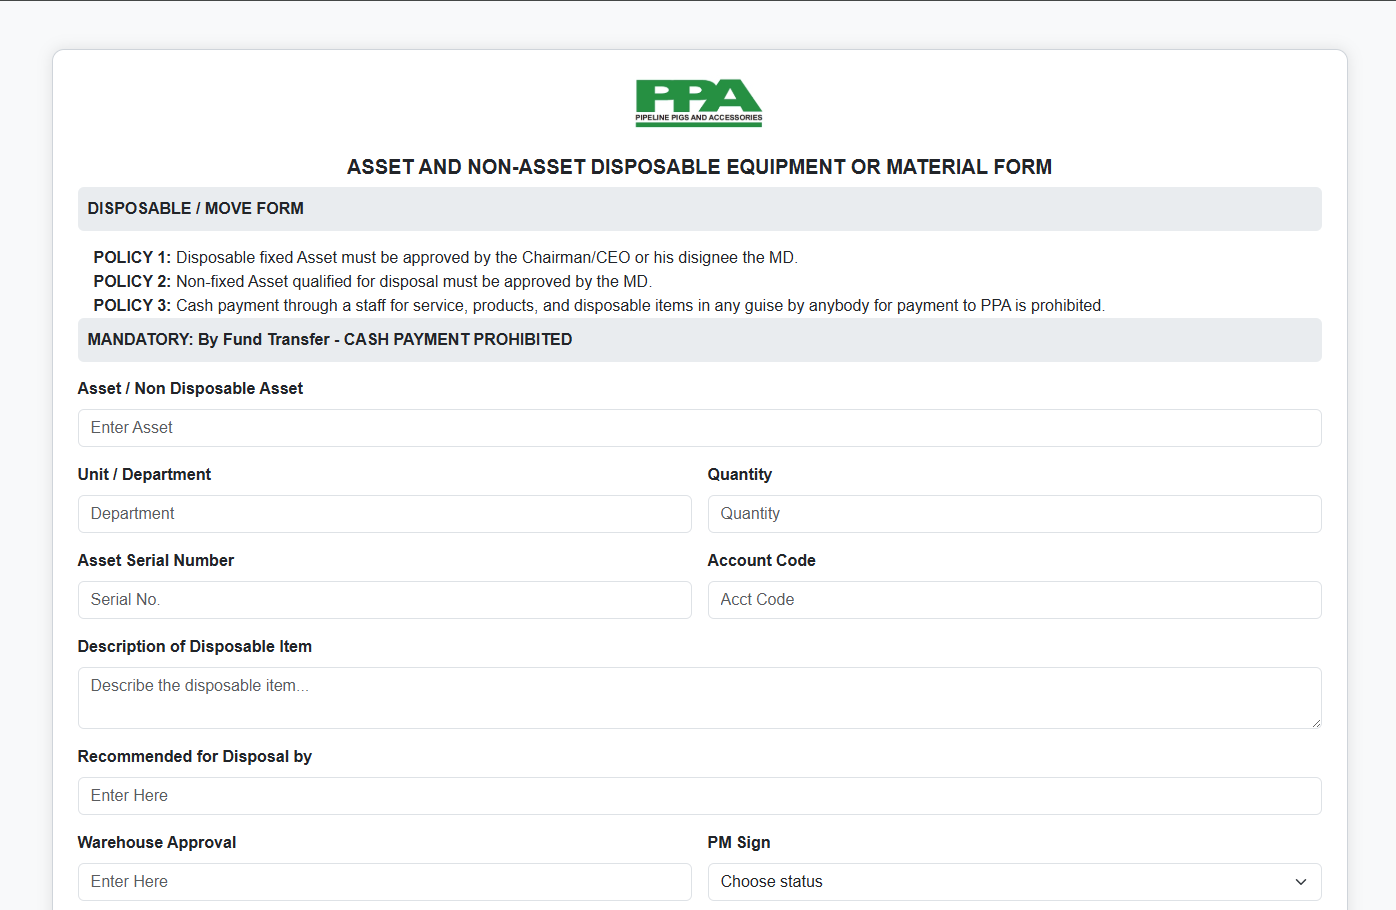
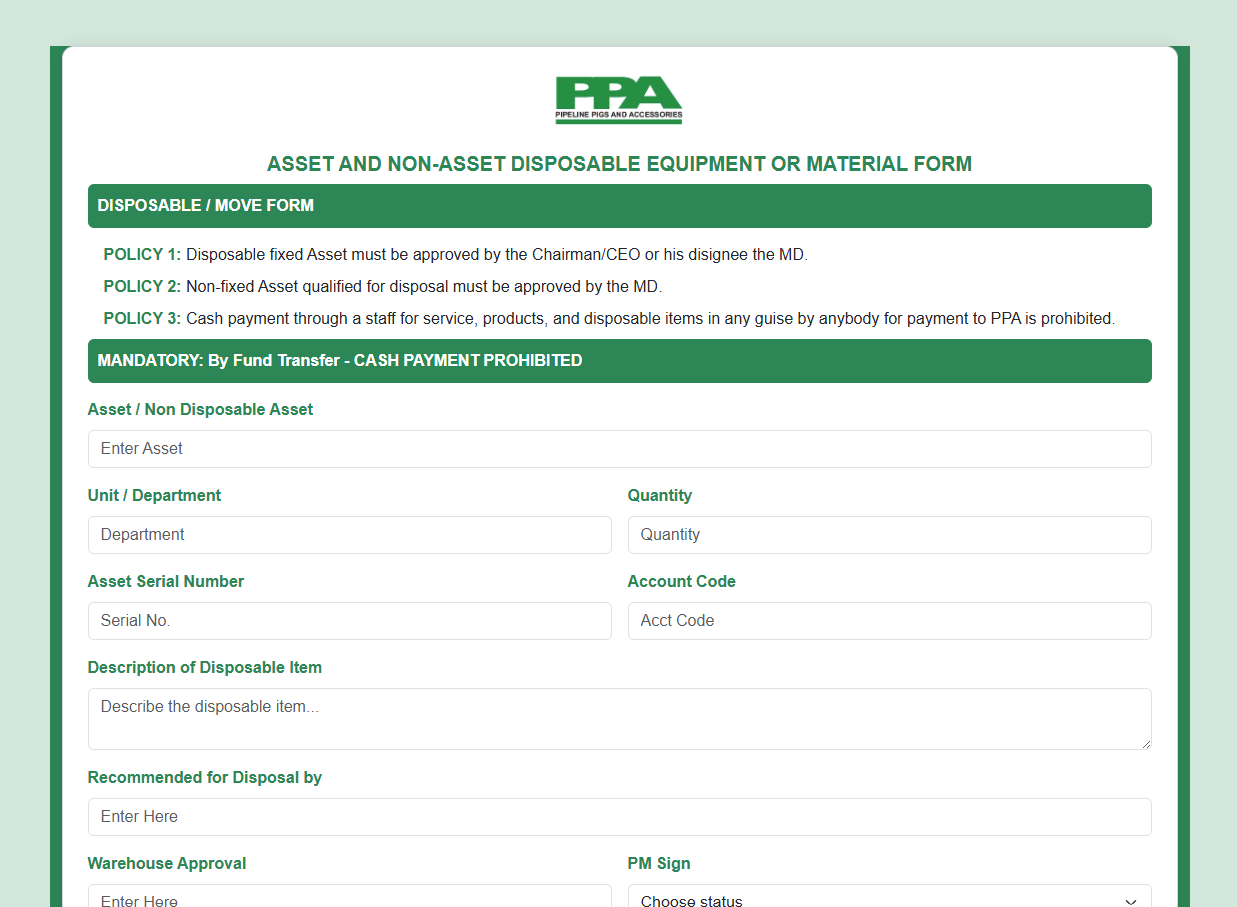
CSS STYLING COMMIT 9-7-2025

diff --git a/home.html b/home.html
@@ -9,13 +9,13 @@
 </head>
 <body>
 
-<div class="container my-5">
+<div class="container my-5 bg-success">
   <div class="report-card">
     <div class="row d-flex justify-content-center">
       <!-- Logo & Title Column -->
       <div class="col-md-12 text-start w-auto">
         <img src="img/logo.png" alt="BGT Logo" class="img-fluid mx-auto d-block" style="width: 150px; height: auto;">
-        <h5 class="fw-bold mt-4">
+        <h5 class="fw-bold mt-4 text-success">
           ASSET AND NON-ASSET DISPOSABLE EQUIPMENT OR MATERIAL FORM
         </h5>
       </div>
@@ -23,52 +23,52 @@
 
     <form enctype="multipart/form-data">
       <!-- DISPOSABLE/MANDATORY FORM Begins  -->
-      <div class="section-title">DISPOSABLE / MOVE FORM </div>
-        <p class="mb-0 fw-semibold px-3 pb-2">POLICY 1:
-          <span class="fw-normal">Disposable fixed Asset must be approved by the Chairman/CEO or his disignee the MD.</span>
+      <div class="section-title bg-success text-white">DISPOSABLE / MOVE FORM </div>
+        <p class="mb-0 fw-semibold px-3 pb-2 text-success">POLICY 1:
+          <span class="fw-normal text-dark">Disposable fixed Asset must be approved by the Chairman/CEO or his disignee the MD.</span>
         </p>
-        <p class="mb-0 fw-semibold px-3 pb-2">POLICY 2:
-          <span class="fw-normal">Non-fixed Asset qualified for disposal must be approved by the MD.</span>
+        <p class="mb-0 fw-semibold px-3 pb-2 text-success">POLICY 2:
+          <span class="fw-normal text-dark">Non-fixed Asset qualified for disposal must be approved by the MD.</span>
         </p>
-        <p class="mb-0 fw-semibold px-3 pb-2">POLICY 3:
-          <span class="fw-normal">Cash payment through a staff for service, products, and disposable items in any guise by anybody for payment to PPA is prohibited.</span>
+        <p class="mb-0 fw-semibold px-3 pb-2 text-success">POLICY 3:
+          <span class="fw-normal text-dark">Cash payment through a staff for service, products, and disposable items in any guise by anybody for payment to PPA is prohibited.</span>
         </p>
-      <div class="section-title">MANDATORY: By Fund Transfer - CASH PAYMENT PROHIBITED</div>
+      <div class="section-title bg-success text-white">MANDATORY: By Fund Transfer - CASH PAYMENT PROHIBITED</div>
       <div class="row g-3">
         <div class="col-md-12">
-          <label class="form-label">Asset / Non Disposable Asset</label>
+          <label class="form-label text-success">Asset / Non Disposable Asset</label>
           <input type="text" class="form-control" placeholder="Enter Asset">
         </div>
         <div class="col-md-6">
-          <label class="form-label">Unit / Department</label>
+          <label class="form-label text-success">Unit / Department</label>
           <input type="text" class="form-control" placeholder="Department">
         </div>
         <div class="col-md-6">
-          <label class="form-label">Quantity</label>
+          <label class="form-label text-success">Quantity</label>
           <input type="text" class="form-control" placeholder="Quantity">
         </div>
         <div class="col-md-6">
-          <label class="form-label">Asset Serial Number</label>
+          <label class="form-label text-success">Asset Serial Number</label>
           <input type="text" class="form-control" placeholder="Serial No.">
         </div>
         <div class="col-md-6">
-          <label class="form-label">Account Code</label>
+          <label class="form-label text-success">Account Code</label>
           <input type="text" class="form-control" placeholder="Acct Code">
         </div>
         <div>
-          <label class="form-label">Description of Disposable Item</label>
+          <label class="form-label text-success">Description of Disposable Item</label>
           <textarea class="form-control" rows="2" placeholder="Describe the disposable item..."></textarea>
         </div>
         <div class="col-md-12">
-          <label class="form-label">Recommended for Disposal by</label>
+          <label class="form-label text-success">Recommended for Disposal by</label>
           <input type="text" class="form-control" placeholder="Enter Here">
         </div>
         <div class="col-md-6">
-          <label class="form-label">Warehouse Approval</label>
+          <label class="form-label text-success">Warehouse Approval</label>
           <input type="text" class="form-control" placeholder="Enter Here">
         </div>
         <div class="col-md-6">
-          <label class="form-label">PM Sign</label>
+          <label class="form-label text-success">PM Sign</label>
           <select class="form-select" name="supervisorSignature" required>
             <option value="" disabled selected>Choose status</option>
             <option value="pending">Pending</option>
@@ -77,49 +77,49 @@
           </select>
         </div>
         <div class="col-md-6">
-          <label class="form-label">Disposal Move / Date</label>
+          <label class="form-label text-success">Disposal Move / Date</label>
           <input type="date" class="form-control">
         </div>
         <div class="col-md-6">
-          <label class="form-label">Photo</label>
+          <label class="form-label text-success">Photo</label>
           <input type="file" class="form-control" accept="image/*">
         </div>
       </div>
       <!-- DISPOSABLE/MANDATORY FORM Ends -->
 
       <!-- Disposal Begins  -->
-      <div class="section-title mt-4">Disposal / Move Actions, Complete all Information in the Section</div>
+      <div class="section-title bg-success text-white mt-4">Disposal / Move Actions, Complete all Information in the Section</div>
       <div class="row g-3">
         <div class="col-md-6">
-          <label class="form-label">SOLD: Sale Price (NAIRA)</label>
+          <label class="form-label text-success">SOLD: Sale Price (NAIRA)</label>
           <input type="text" class="form-control" placeholder="Enter Sales">
         </div>
         <div class="col-md-6">
-          <label class="form-label">Money Deposited to: Account Number</label>
+          <label class="form-label text-success">Money Deposited to: Account Number</label>
           <input type="text" class="form-control" placeholder="Acc No.">
         </div>
         <div class="col-md-6">
-          <label class="form-label">Attach Payment Advice / Slip</label>
+          <label class="form-label text-success">Attach Payment Advice / Slip</label>
           <input type="text" class="form-control" placeholder="Payment Slip">
         </div>
         <div class="col-md-6">
-          <label class="form-label">Date</label>
+          <label class="form-label text-success">Date</label>
           <input type="date" class="form-control">
         </div>
         <div class="col-md-6">
-          <label class="form-label">Buyer Name</label>
+          <label class="form-label text-success">Buyer Name</label>
           <input type="text" class="form-control" placeholder="Acct Code">
         </div>
         <div class="col-md-6">
-          <label class="form-label">Phone Number</label>
+          <label class="form-label text-success">Phone Number</label>
           <input type="number" class="form-control" placeholder="Phone No">
         </div>
         <div>
-          <label class="form-label">Address</label>
+          <label class="form-label text-success">Address</label>
           <textarea class="form-control" rows="2" placeholder="Write address here..."></textarea>
         </div>
         <div class="col-md-6">
-          <label class="form-label">Approved By: AGM</label>
+          <label class="form-label text-success">Approved By: AGM</label>
           <select class="form-select" name="supervisorApproval" required>
             <option value="" disabled selected>Choose status</option>
             <option value="pending">Pending</option>
@@ -128,11 +128,11 @@
           </select>
         </div>
         <div class="col-md-6">
-          <label class="form-label">Chief Accountant</label>
+          <label class="form-label text-success">Chief Accountant</label>
           <input type="text" class="form-control" placeholder="Enter Here">
         </div>
       </div>
-      <div class="section-title mt-4">MANDATORY: PASS TO SECURITY, REGISTRATION / DOCUMENTATION</div>
+      <div class="section-title bg-success text-white mt-4">MANDATORY: PASS TO SECURITY, REGISTRATION / DOCUMENTATION</div>
       <!-- Disposal Ends  -->
 
       <!-- Total Unit Begins  -->

diff --git a/style.css b/style.css
@@ -1,5 +1,5 @@
 body {
-  background-color: #f8f9fa;
+  background-color: #d1e7dd;
   font-family: Arial, sans-serif;
 }
 .report-card {
